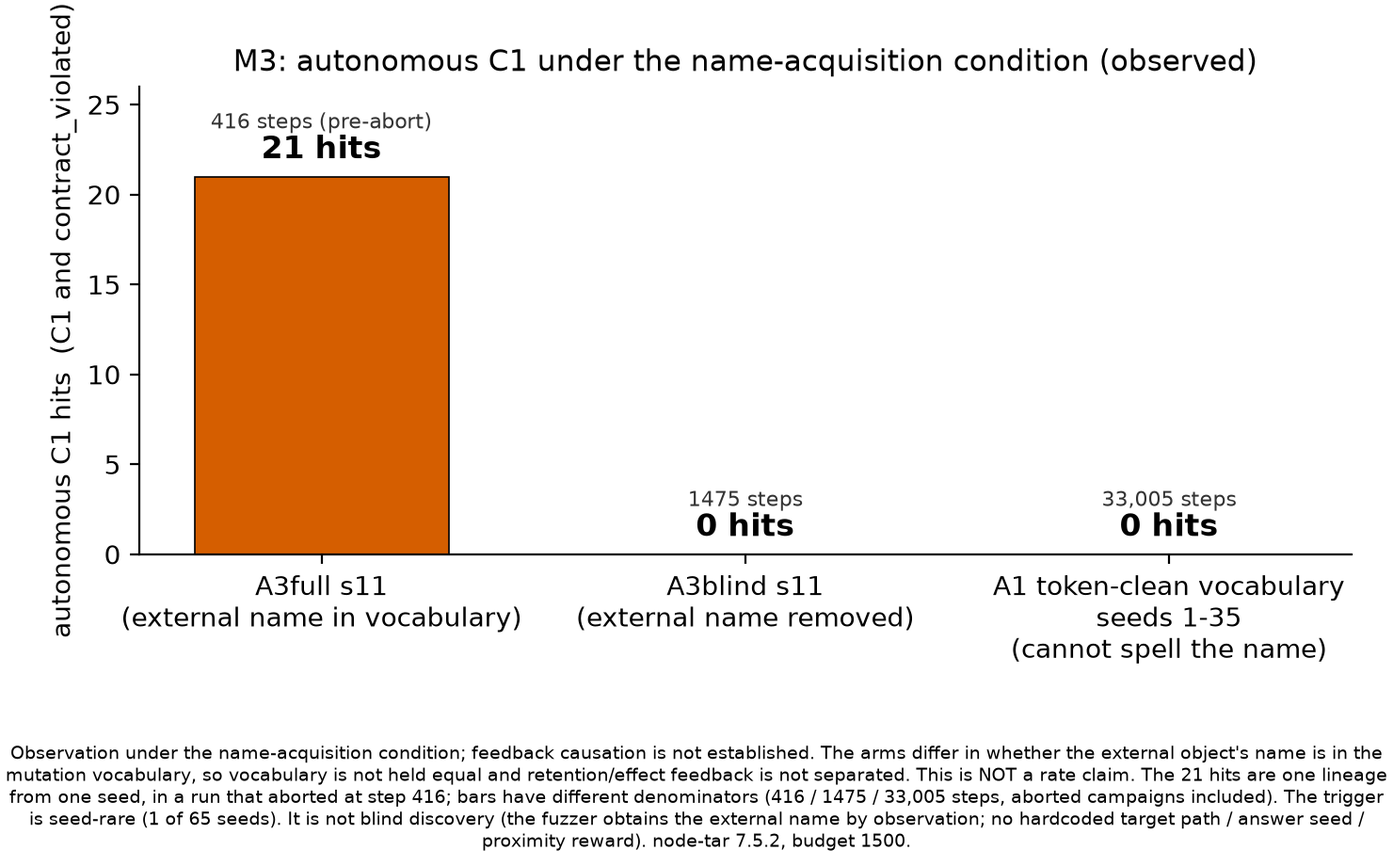
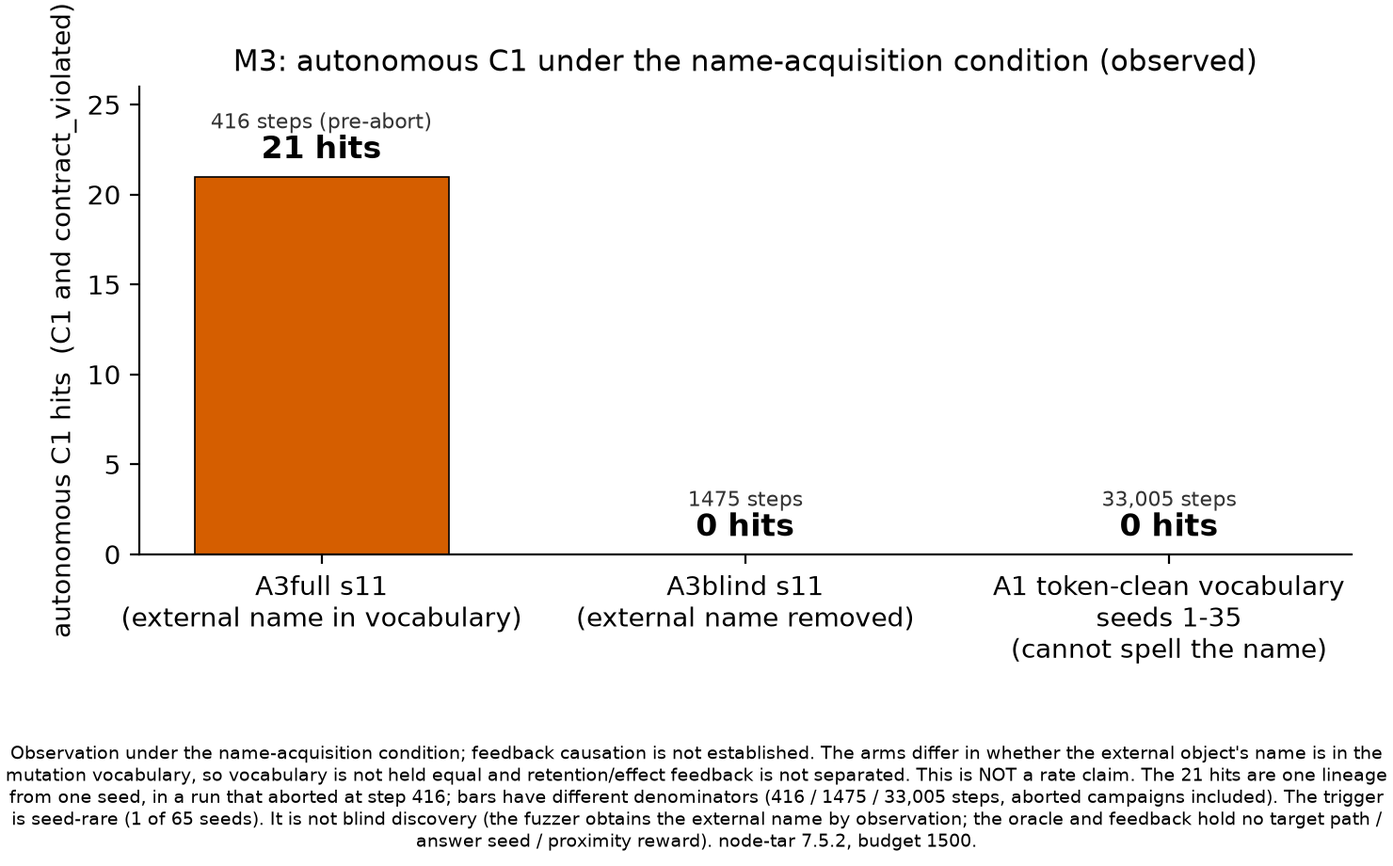
docs(paper): 과장 표현 일괄 스윕 — recipe·blind·v1 잔존 48건을 정직한 claim으로
paper/ 전체와 related-work-positioning.md를 전수 grep해 한 번에 교정한다(162건 중 48건).
참값: CVE 식별자·PoC·고정 공격 패턴·대상 경로·sentinel 이름을 oracle·feedback에 넣지
않는다(D005·D006). "고정 recipe 자체가 없다"나 "blind 발견"이 아니다.

- A(11건): 범위 없는 "recipe 없음·하드코딩 안 함"을 oracle·feedback 범위로 좁힌다.
  mutation에는 add_hardlink 연산자와 escape-hardlink 문법이 있고(exp0-pilot-v2.1:28),
  외부 이름은 어휘에 들어간다. M3 그림 캡션 포함(PNG 재렌더, 수치 불변).
- V(5건): v1 H1·RQ2/RQ3 잔존을 research-questions v2로 교체하고 "(구: …)"를 남긴다.
- O(2건): "object-identity 관찰을 끄면/켜면"을 외부 이름을 어휘에서 빼면/넣으면으로.
  이 대조는 어휘를 바꾼 것이다(§5.3.2 정정).
- B(30건): "blind 대조"를 "어휘 제거 대조"로 통일한다. "blind 발견 아님"과 혼동되기
  때문이다(W3 심사 E8).

그대로 둔 것: "blind 발견 아님", 금지 목록, 신규성 제외, 신규 seed, M2 oracle의 "하드코딩
없이", 파일명·arm ID(A3blind, Ledger 인용 identity-blind), "(구: …)" 인용.

머지 주의: #256 gen_table_m3.py의 PREFIX·LABELS·SUFFIX를 새 T-M3에 맞춰야 한다.

Claude-Session: https://claude.ai/code/session_01J7VZibcLNxwsopuuNyVmdm

Changed region(s): [[0.0, 0.913, 0.9946, 1.0]]

diff --git a/paper/figures/render_m3_blind_ablation.py b/paper/figures/render_m3_blind_ablation.py
@@ -1,4 +1,4 @@
-"""Render the M3 blind-ablation figure (observed data only).
+"""Render the M3 vocabulary-removal contrast figure (observed data only).
 
 Data source (observed): ``paper/tables/m3-blind-ablation.md``, re-counted from the raw
 step logs (hit = a step with ``oracle.C1`` AND ``feedback.contract_violated``). node-tar
@@ -57,8 +57,8 @@ def main() -> None:
         "a rate claim. The 21 hits are one lineage from one seed, in a run that aborted at step "
         "416; bars have different denominators (416 / 1475 / 33,005 steps, aborted campaigns "
         "included). The trigger is seed-rare (1 of 65 seeds). It is not blind discovery (the "
-        "fuzzer obtains the external name by observation; no hardcoded target path / answer seed "
-        "/ proximity reward). node-tar 7.5.2, budget 1500."
+        "fuzzer obtains the external name by observation; the oracle and feedback hold no target "
+        "path / answer seed / proximity reward). node-tar 7.5.2, budget 1500."
     )
     fig.text(0.5, 0.015, caption, ha="center", va="bottom", fontsize=7, wrap=True)
     fig.subplots_adjust(left=0.1, right=0.97, top=0.9, bottom=0.36)

diff --git a/paper/sections/01-abstract.md b/paper/sections/01-abstract.md
@@ -1,10 +1,10 @@
 # Abstract (드래프트 v1)
 
-InodeFence는 TAR archive extraction의 보안 경계위반 탐색에서, 고정된 CVE PoC나 공격 recipe를
-하드코딩하지 않고 **filesystem-security-state**(추출 객체와 외부 객체 사이의 object identity, 보호된
-외부 sentinel에 대한 external effect)를 feedback으로 사용하는 접근을 조사하는 연구 프로토타입이다.
-핵심 연구 질문 H1은 "이 상태를 feedback으로 쓰면 extraction의 보안 경계위반을 더 잘 탐색할 수
-있는가"이며, 참신성은 확정된 사실이 아니라 **검증 대상 가설**로 둔다.
+InodeFence는 TAR archive extraction의 보안 경계위반 탐색에서, CVE 식별자·PoC·고정 공격 패턴·대상 경로·sentinel 이름을
+oracle과 feedback에 넣지 않고 **filesystem-security-state**(추출 객체와 외부 객체 사이의 object identity, 보호된
+외부 sentinel에 대한 external effect)를 feedback으로 사용하는 접근을 조사하는 연구 프로토타입이다 *(구: "고정된 CVE PoC나 공격 recipe를 하드코딩하지 않고", 2026-11-06 범위 정정)*.
+핵심 연구 질문은 "피해 경로 이름을 아는 동일 어휘·동일 예산 아래서, 이 상태를 retention·스케줄링 피드백으로 쓰는 탐색이 무작위 탐색과
+구조 커버리지 탐색보다 첫 경계위반까지의 실행 수를 줄이고 고유 위반 입력을 더 많이 찾는가"이고(research-questions v2; blind 발견 비주장), 참신성은 확정된 사실이 아니라 **검증 대상 가설**로 둔다 *(구: H1 "이 상태를 feedback으로 쓰면 extraction의 보안 경계위반을 더 잘 탐색할 수 있는가", v1 질문, 2026-11-06 교체)*.
 
 이 드래프트가 **방어하는 주장은 좁다**:
 
@@ -15,20 +15,20 @@ InodeFence는 TAR archive extraction의 보안 경계위반 탐색에서, 고정
    보호된 외부 sentinel의 전후 metadata 변화 = C2)이 릴리스 id나 정답 경로를 판정 조건에 넣지
    않고 서로 다른 두 root-cause(CVE-2026-23745, 그리고 그 수정이 도입한 회귀 CVE-2026-24842)를
    5개 고정 릴리스의 통제 차분으로 포착한다(M2, observed).
-3. 영향 릴리스 node-tar 7.5.2에서 object-identity 관찰을 **끄면**(identity-blind 대조) 자율 경계위반
-   발견이 0이고 **켜면** 특정 seed에서 결정론적으로 재현되는 자율 C1 트리거(21건)가 나타난다 —
-   즉 자율 경계위반이 **외부 객체 이름을 어휘에 획득한 조건에서 관찰된다**(M3; blind 대조는 어휘 통제라 retention·effect 피드백 자체의 인과 기여는 미입증) *(구: "발견의 인과적 원인이 그 feedback임을 blind 대조로 보인다", 2026-11-03 정정)*.
-   (2026-11-03 정정: 이 blind 대조는 피드백이 아니라 **어휘**를 통제한 실험이다. 입증된 것은 "외부 객체 이름의 관찰(어휘 획득)이 자율 C1의 필요조건"이지 (st_dev, st_ino) retention·스케줄링 피드백의 기여가 아니며, 그 기여는 어휘를 맞춘 R/D/S-u 비교(research-questions v2 H-A)로 미분리다. 수치·서술은 보존한다. 상세: §5.3.2 정정.)
+3. 영향 릴리스 node-tar 7.5.2에서 외부 객체 이름을 mutation 어휘에서 **빼면**(A3blind, 어휘 제거 대조) 자율 경계위반
+   발견이 0이고 **넣으면**(A3full) 특정 seed에서 결정론적으로 재현되는 자율 C1 트리거(21건)가 나타난다 *(구: "object-identity 관찰을 끄면/켜면", 2026-11-06 정정)* —
+   즉 자율 경계위반이 **외부 객체 이름을 어휘에 획득한 조건에서 관찰된다**(M3; 어휘 제거 대조는 어휘 통제라 retention·effect 피드백 자체의 인과 기여는 미입증) *(구: "발견의 인과적 원인이 그 feedback임을 blind 대조로 보인다", 2026-11-03 정정)*.
+   (2026-11-03 정정: 이 어휘 제거 대조는 피드백이 아니라 **어휘**를 통제한 실험이다. 입증된 것은 "외부 객체 이름의 관찰(어휘 획득)이 자율 C1의 필요조건"이지 (st_dev, st_ino) retention·스케줄링 피드백의 기여가 아니며, 그 기여는 어휘를 맞춘 R/D/S-u 비교(research-questions v2 H-A)로 미분리다. 수치·서술은 보존한다. 상세: §5.3.2 정정.)
 4. 동일한 generic oracle(코드 불변)이 adapter 수준에서 3개 독립 extractor(python-tarfile · oras-go ·
    decompress)에 target-agnostic하게 적용된다(M4, **oracle/adapter 수준** 일반성).
 
 **정직 경계를 명시한다.** (3)은 "상태-인지 feedback이 무작위보다 빠르다/많이 찾는다"는 **rate 우위도
 아니고** "feedback이 인과적으로 발견을 구동한다"는 **인과 명제도 아니다** *(구: "feedback이 발견을 가능케 한다는 인과 명제", 2026-11-03 정정)*. (3)이 말하는 것은 **"외부 이름을 어휘에 획득한 조건에서만 자율 C1이 관찰됨 — 이름 없으면 도달 불가"**라는 이름 획득 조건의 관찰이며, retention·effect 피드백 자체의 인과 기여는 어휘를 맞춘 R/D/S-u로 미분리다.
-(2026-11-03 정정: 이 blind 대조는 피드백이 아니라 **어휘**를 통제한 실험이다. 입증된 것은 "외부 객체 이름의 관찰(어휘 획득)이 자율 C1의 필요조건"이지 (st_dev, st_ino) retention·스케줄링 피드백의 기여가 아니며, 그 기여는 어휘를 맞춘 R/D/S-u 비교(research-questions v2 H-A)로 미분리다. 수치·서술은 보존한다. 상세: §5.3.2 정정.) 자율
+(2026-11-03 정정: 이 어휘 제거 대조는 피드백이 아니라 **어휘**를 통제한 실험이다. 입증된 것은 "외부 객체 이름의 관찰(어휘 획득)이 자율 C1의 필요조건"이지 (st_dev, st_ino) retention·스케줄링 피드백의 기여가 아니며, 그 기여는 어휘를 맞춘 R/D/S-u 비교(research-questions v2 H-A)로 미분리다. 수치·서술은 보존한다. 상세: §5.3.2 정정.) 자율
 트리거는 이 예산(budget 1500)에서 65 seed 중 1개로 **seed-rare**이며, 이것은 **blind 발견이 아니다**
-(기존 외부 객체에 하드링크하려면 그 이름이 필요하고 퍼저는 그것을 관찰로 얻는다; 어휘·oracle에
-대상 경로·식별자·정답 seed·근접 보상을 하드코딩하지 않았고 EXTERNAL 필터는 region 기준
-target-agnostic이다). rate 우위 판정(동일 budget powered matched A1 vs A3full)과 2·3번째 extractor의
+(기존 외부 객체에 하드링크하려면 그 이름이 필요하고 퍼저는 그것을 관찰로 얻는다; oracle·feedback에
+대상 경로·식별자·정답 seed·근접 보상을 넣지 않았고 EXTERNAL 필터는 region 기준
+target-agnostic이다; 외부 이름 자체는 어휘에 들어간다) *(구: "어휘·oracle에 … 하드코딩하지 않았고", 2026-11-06 범위 정정)*. rate 우위 판정(동일 budget powered matched A1 vs A3full)과 2·3번째 extractor의
 powered 자력발견 판정은 사전등록 후 수행했고 **모두 효과 우위를 보이지 않았다**: rate는 매칭 Wilson
 CI가 겹쳐 **미분리**(검정력 부족)이나 신규 disjoint seed s101에서 메커니즘이 재현돼 멀티-seed로
 강화됐고, 2번째(decompress 통합 0/28)·3번째(oras-go 0/1) extractor 자력발견은 각각 **사후 분석 기준 음성(사전등록 판정 아님)·약한

diff --git a/docs/LOG.md b/docs/LOG.md
@@ -191,3 +191,4 @@ append-only. 실행 시도 1건 = 1줄. 실패해도 기록한다.
 - 2026-11-06 | 지웅 (Claude Code, W4 Paper & Deliverables, 오케스트레이터 inodefence-3b 지시) | **W4-T2 M2·M3 그림 재렌더와 문구 정정, 결론 TBD 구조, EXP-0 clock 환산 반영.** `render_m3_blind_ablation.py`의 제목·캡션·x축 라벨을 Ledger M3 판정에 맞춰 재렌더(한글 폰트가 없어 그림 안은 영문; W3 확인, 수정 2건 반영: A1 라벨, lineage·분모 문장). `render_m2_cross_release.py` 캡션의 회귀 인과 서술을 inferred로 정정. T-M3 '읽는 법'과 그림 사양 정정. `08-conclusion.md`에 §7.2 EXP-3 자리·양방향 문장 틀·검정력 한계(수치 없음, 기존 본문 유지). 보고서·대본·§5.6 패치에 W2 확정 EXP-0 배율 1.091 반영: p95 1.549→1.419 s, 스트림당 2428→2650 exec/h, 호스트 전체 ≈4760 exec/h. 위 W4 clock 항목의 '환산값 미확정'을 대체하며 11/06 측정 1.0837은 EXP-0에 적용하지 않는다. 일정 표기는 결과보고서·영상 제출 11/26, 최종발표 11/30. **머지 주의:** #256 `scripts/gen_table_m3.py` SUFFIX가 T-M3 옛 문단을 복제하므로 #265와 함께 머지하면 `tests/test_gen_tables.py::test_m3_render_byte_identical_to_committed`와 `--verify` T-M3 행이 깨진다. #256은 손대지 않았고 머지 때 SUFFIX를 새 본문에 맞춰야 한다(W1). §5.6 패치는 #225·#247 머지 대기. `docs/STATUS.md`의 '제출 11/30' 문구 정리는 오케스트레이터 몫이다. 시연 대본 검증 실행의 raw를 scratchpad에서 `~/inodefence-evidence/w4-script-verification-20261106/`로 옮겨 보존(MANIFEST.sha256 88ac345e, W2 노출 원장 입력으로 전달). | ruff check·format(그림 스크립트 2개) · `scripts/check_docs.py` PASS, 재렌더 PNG 육안 확인, 수치 불변. pytest 미실행(이 호스트에 pytest 없음, CI에 맡김). | paper/figures/{m2-cross-release-evidence.png,m3-blind-ablation.png,render_m2_cross_release.py,render_m3_blind_ablation.py,m3-blind-ablation-figure-spec.md} · paper/tables/m3-blind-ablation.md · paper/sections/08-conclusion.md · paper/deliverables/* |
 - 2026-11-06 | 지웅 (Claude Code, W4 Paper & Deliverables, 오케스트레이터 inodefence-3b 지시) | **W4-T3 논문 정합성 수정(결과 비의존, W3 심사 E6·E2·E1).** 03 §2.4에 피해 경로 이름 전제와 blind 비주장 추가. 04 §3.3 '확인된 차이'를 '추가 검증할 차이(가설)'로 바꾸고 Windows 범위 명시. 04 §3.5 v1 질문을 research-questions v2 핵심 RQ로 교체. 수치·실험·사전등록 변경 없음. 범위 밖으로 남긴 것: `related-work-positioning.md:119`와 #260 §3.7.1의 같은 v1 문장, E3·E4·E5·E7·E8. | `scripts/check_docs.py` PASS. | paper/sections/03-background-threat-model.md · paper/sections/04-related-work.md |
 - 2026-11-06 | 지웅 (Claude Code, W4 Paper & Deliverables, 오케스트레이터 inodefence-3b 지시) | **W4-T4 v1 질문 잔존 정리와 ZIPDiff 출처 표기(W3 심사 E1·E3).** `related-work-positioning.md` 현재 질문을 v2 핵심 RQ로 교체(옛 문구는 '구:' 주석). 04 §3.2 ZIPDiff 서술에 Wormholes §5.6 출처 각주와 범위(ZIP 도구 20개, 그중 8개 symlink 취약) 추가. 원문은 W3가 확인했고 재대조하지 않았다. 결과보고서 §1의 'recipe 없음' 계열 문장을 판정·피드백 범위로 좁히고 blind 비주장 추가. #260 §3.7.1 표의 '고정 recipe 없음' 교체 문구는 W1에 전달(이 행의 출처는 #216이며 #260 브랜치는 편집하지 않음). 남은 같은 계열 문구: 01:3, 05:27, 08:5(이번 지시 범위 밖). §5.6 패치를 이동한 #247 head 기준으로 다시 만들어 적용 확인(커밋 안 함). | `scripts/check_docs.py` PASS. | docs/research/design/related-work-positioning.md · paper/sections/04-related-work.md · paper/deliverables/capstone-report-draft.md |
+- 2026-11-06 | 지웅 (Claude Code, W4 Paper & Deliverables, 오케스트레이터 inodefence-3b 지시) | **W4-T5 과장 표현 일괄 스윕(paper/ 전체 + related-work-positioning.md, 48건).** 범위 없는 'recipe 없음·하드코딩 안 함' 주장을 'CVE 식별자·PoC·고정 공격 패턴·대상 경로·sentinel 이름을 oracle·feedback에 넣지 않는다'(D005·D006)로 좁힘 11건, v1 질문·번호 잔존을 v2로 5건, 'object-identity 관찰 끄면/켜면' 서술을 어휘 조건으로 2건, 'blind 대조'를 '어휘 제거 대조'로 30건. M3 그림 캡션 수정으로 PNG 재렌더(수치 불변, W2 리허설 중이라 nice 19). 그대로 둔 것: 'blind 발견 아님', 금지 목록, 신규성 제외, 신규 seed, M2 oracle의 '하드코딩 없이', 파일명·arm ID(A3blind, identity-blind Ledger 인용), '(구:)' 인용. **머지 주의:** #256 `gen_table_m3.py`는 SUFFIX뿐 아니라 PREFIX·LABELS도 새 T-M3에 맞춰야 한다. | `scripts/check_docs.py` PASS · ruff check·format(render_m3) · 재렌더 PNG 육안 확인. pytest 미실행(이 호스트에 pytest 없음, CI에 맡김). | paper/sections/{00-outline,01-abstract,02-introduction,05-method,06-results,07-limitations-discussion,08-conclusion,claims-evidence-status-v1}.md · paper/tables/{capability-ledger-summary,m3-blind-ablation}.md · paper/figures/{README.md,m3-blind-ablation-figure-spec.md,m3-blind-ablation.png,render_m3_blind_ablation.py} · paper/deliverables/{capstone-report-draft,results-artifact-requirements}.md · docs/research/design/related-work-positioning.md |

diff --git a/paper/sections/claims-evidence-status-v1.md b/paper/sections/claims-evidence-status-v1.md
@@ -24,8 +24,8 @@ raw experiment output → validated summary → finding → 이 매핑 → Capab
 | C-M1 | 실제 node-tar에서 입력→실행→entry별 관찰→C0/C1/C2→feedback→다음 mutation 루프가 돈다 | **paper-ready**(TESTED, 엔지니어링 능력) | Ledger M1 행 1–6 + 마일스톤 M1; `make demo`(호스트) |
 | C-M2 | **generic identity oracle 하나**가 릴리스/정답경로 하드코딩 없이 두 root-cause(R1=CVE-2026-23745, R2=CVE-2026-24842)를 통제 재현으로 포착 | **paper-ready**(방어 가능) | raw [`../../experiments/repro/evidence/summary.json`](../../experiments/repro/evidence/summary.json) → [M2 validated summary](../../experiments/summaries/cross-release-identity-repro-v1.md) → Ledger M2 행/마일스톤 M2 |
 | C-M3a-1 | 영향 릴리스 7.5.2에서 **외부 객체 이름을 mutation 어휘에 획득한 조건(A3full)에서 자율 경계위반이 관찰됐다**(s11=21 vs 이름을 뺀 A3blind 0 vs 철자 불가 A1 0; **멀티-seed**: powered 매칭 런의 신규 disjoint seed s101 완주 C1 + s118 observed-trigger로 반복) | **paper-ready**(observed; "blind 발견 아님"·"동일 어휘 통제 없음" 명시 필수) | raw `~/inodefence-evidence/{m3-scale-full,m3-ablation,m3-repro}` → [M3 validated summary](../../experiments/summaries/node-self-discovery-mechanism-v1.md) + powered 매칭 [verdict v2](../../experiments/summaries/m3-powered-matched-verdict-v2.md)(#200) → Ledger M3 행/마일스톤 M3(PR #151) |
-| C-M3a-2 | **inode/effect retention 피드백 자체의 인과 기여**(동일 어휘 아래 S-u가 R·D보다 위반에 먼저·더 많이 도달) | **미검증** — 기존 blind 대조는 어휘를 통제해 분리 불가; 어휘 동등 R/D/S 비교(EXP-3, 2026-11-18 사전등록) 이후 판정 | [research-questions v2](../../docs/research/design/research-questions.md) H-A · [exp0-pilot-v2](../../experiments/preregistration/exp0-pilot-v2.md) |
-| C-M3b | **상태-인지 피드백이 무작위보다 C1을 더 빨리/많이 찾는다(rate 우위, H1 effectiveness)** | **사전등록 판정: rate CI 미분리(검정력 부족)** — 주 주장 아님 | powered 매칭 런 완료(A1 vs A3full, budget 2000, disjoint seed 100–119): 완주 clean C1 A3full 1/10 vs A1 0/12, 매칭 Wilson CI 겹침(`complete_hit_wilson_intervals_separate=False`) → rate 우위 미입증(~0.1 효과 검정력 부족). raw `~/inodefence-evidence/m3-powered-matched-20261030` → [powered verdict](../../experiments/summaries/m3-powered-matched-verdict-v1.md)(#196). 논문 본문 확정 rate 주장 금지(보조·탐색적) |
+| C-M3a-2 | **inode/effect retention 피드백 자체의 인과 기여**(동일 어휘 아래 S-u가 R·D보다 위반에 먼저·더 많이 도달) | **미검증** — 기존 어휘 제거 대조는 어휘를 통제해 분리 불가; 어휘 동등 R/D/S 비교(EXP-3, 2026-11-18 사전등록) 이후 판정 | [research-questions v2](../../docs/research/design/research-questions.md) H-A · [exp0-pilot-v2](../../experiments/preregistration/exp0-pilot-v2.md) |
+| C-M3b | **상태-인지 피드백이 무작위보다 C1을 더 빨리/많이 찾는다(rate 우위, v1 H1에서 유래)** | **사전등록 판정: rate CI 미분리(검정력 부족)** — 주 주장 아님 | powered 매칭 런 완료(A1 vs A3full, budget 2000, disjoint seed 100–119): 완주 clean C1 A3full 1/10 vs A1 0/12, 매칭 Wilson CI 겹침(`complete_hit_wilson_intervals_separate=False`) → rate 우위 미입증(~0.1 효과 검정력 부족). raw `~/inodefence-evidence/m3-powered-matched-20261030` → [powered verdict](../../experiments/summaries/m3-powered-matched-verdict-v1.md)(#196). 논문 본문 확정 rate 주장 금지(보조·탐색적) |
 | C-M4a | 동일 generic C0/C1/C2 oracle이 **3개 독립 extractor**(python-tarfile·oras-go·decompress)에서 adapter로 경계위반을 포착 | **paper-ready**(단 **oracle/adapter 수준 일반성에 한정**) | Ledger M4 행/마일스톤 M4(통제 reference 차분 + container-integration; `tests/test_python_tarfile_generality.py` 등) |
 | C-M4b | 2·3번째 extractor에서 **퍼저 자력 발견** 일반성 | **완료 아님(루프 작동·실행, 발견은 음성)** | 자력발견 루프가 decompress(2번째)·oras-go(3번째)에서 실제 실행됨 — decompress 통합 C1/C2 **0/28 Wilson≤0.121(검정력 있는 음성, #198)**, oras-go **0/1 Wilson[0,0.793](약한 음성, #197)**; C0(path-boundary)는 자력도달하나 identity/effect 미도달. [M4.5 통합 verdict](../../experiments/summaries/m4-5-decompress-selfdiscover-unified-v1.md)·[M4.7 oras-go](../../experiments/summaries/m4-7-oras-go-selfdiscover-v1.md). generality(oracle/adapter=C-M4a)≠self-discovery(루프 작동)≠effectiveness(발견). 발견 effectiveness 주장 아님 |
 | C-ABCD | item-3 A/B/C/D 중간상태 gradient: gradient(C/D)>random(A)>structure(B); **identity-state(C)≡coverage(D)** | **보조/탐색적만**(effectiveness 랭킹 아님) | Ledger "feedback effectiveness" 행 PASS 2. terminal C1 0/21 Wilson[0,0.155]. escape-hardlink 문법 한정 negative(C≡D 중복), 범위 밖 일반화 금지. EN-008(새 state 수 ≠ effectiveness) |

diff --git a/paper/tables/m3-blind-ablation.md b/paper/tables/m3-blind-ablation.md
@@ -1,4 +1,4 @@
-# 표 M3 — 자력 발견 blind-ablation 대조표
+# 표 M3 — 자력 발견 어휘 제거 대조표
 
 > 렌더된 그림: [m3-blind-ablation.png](../figures/m3-blind-ablation.png) (생성 소스 [`render_m3_blind_ablation.py`](../figures/render_m3_blind_ablation.py))
 
@@ -15,7 +15,7 @@ M3(§5.3)의 근거표다. hit = **step에서 `oracle.C1` AND `feedback.contract
 | budget | 1500 (campaign당) |
 | raw 위치 | `~/inodefence-evidence/{m3-scale-full, m3-ablation, m3-repro}/` (저장소 밖, git-ignore; 각 `matrix.json`에 provenance) |
 | validated summary | [node-self-discovery-mechanism-v1](../../experiments/summaries/node-self-discovery-mechanism-v1.md) |
-| 관련 PR | #151 (메커니즘·실제규모·blind 대조, main 머지 `d44d903`) |
+| 관련 PR | #151 (메커니즘·실제규모·어휘 제거 대조, main 머지 `d44d903`) |
 
 arm 정의: `A3full` = `uniform-generic-m1-state-aware-escape-hardlink-v1`; `A3blind` =
 `...-state-aware-escape-hardlink-blind-v1`(관찰 이름에서 EXTERNAL region 제외); `A1` = 무작위 바닥
@@ -26,7 +26,7 @@ arm 정의: `A3full` = `uniform-generic-m1-state-aware-escape-hardlink-v1`; `A3b
 | 셀 | seeds | 기록 step 수 | 자율 C1 hit (C1 ∧ contract_violated) |
 | --- | --- | --- | --- |
 | **A3full s11** (state-aware; scale-full·ablation 동일·결정론) | 11 | 416 (abort 전) | **21** (21건 모두 C1·C2·contract_violated 동시) |
-| **A3blind s11** (identity-blind 대조) | 11 | 1475 | **0** |
+| **A3blind s11** (어휘 제거 대조) | 11 | 1475 | **0** |
 | **A1 random floor** | 1–35 (35개) | 33,005 | **0** |
 | A3full scale study | 1–35 (35개) | 41,494 | **s11만 21** (그 외 전 seed 0) |
 | A3full 재현 | 36–65 (30개) | 34,585 | **0/30** |
@@ -44,8 +44,8 @@ A3full s11 = 21은 이름을 어휘에 넣은 조건의 관찰이고, 이름을 
 미입증이며, 그 기여는 어휘를 맞춘 R/D/S-u 비교로 아직 분리되지 않았다. 이는 **rate 우위도 아니다**(§5.3.3 powered 판정: 매칭
 Wilson CI 미분리). 21 hit는 한 seed의 1 lineage이고 셀마다 분모(step 수)가 다르다(§5.3.1). 자율 트리거는 이 그림의 budget
 1500·seed 1–65에선 s11 하나(seed-rare)이고 powered 런의 신규 disjoint seed s101에서도 관찰됐지만, 동일 어휘 통제가 없으므로
-피드백 인과의 강화는 아니다. **blind 발견이 아니다**(퍼저는 외부 객체 이름을 관찰로 얻는다; 하드코딩 없음, §5.3.2).
+피드백 인과의 강화는 아니다. **blind 발견이 아니다**(퍼저는 외부 객체 이름을 관찰로 얻는다; oracle·feedback에 대상 경로·정답 seed 없음, §5.3.2) *(구: "하드코딩 없음", 2026-11-06 범위 정정)*.
 
 *(구: "object-identity 관찰(feedback)이 없으면 도달 불가, 있으면 도달"이라는 인과, 2026-11-03 정정을 2026-11-06 본문에 반영.)*
 
-(2026-11-03 정정: 이 blind 대조는 피드백이 아니라 **어휘**를 통제한 실험이다. 입증된 것은 "외부 객체 이름의 관찰(어휘 획득)이 자율 C1의 필요조건"이지 (st_dev, st_ino) retention·스케줄링 피드백의 기여가 아니며, 그 기여는 어휘를 맞춘 R/D/S-u 비교(research-questions v2 H-A)로 미분리다. 수치·서술은 보존한다. 상세: §5.3.2 정정.) 이 표의 세 셀은 어휘(이름 포함 여부)가 다른 셀이므로, 읽는 법은 "이름 획득 조건의 대조"다.
+(2026-11-03 정정: 이 어휘 제거 대조는 피드백이 아니라 **어휘**를 통제한 실험이다. 입증된 것은 "외부 객체 이름의 관찰(어휘 획득)이 자율 C1의 필요조건"이지 (st_dev, st_ino) retention·스케줄링 피드백의 기여가 아니며, 그 기여는 어휘를 맞춘 R/D/S-u 비교(research-questions v2 H-A)로 미분리다. 수치·서술은 보존한다. 상세: §5.3.2 정정.) 이 표의 세 셀은 어휘(이름 포함 여부)가 다른 셀이므로, 읽는 법은 "이름 획득 조건의 대조"다.

diff --git a/paper/sections/00-outline.md b/paper/sections/00-outline.md
@@ -14,12 +14,12 @@ Capability Ledger)로 추적 가능하다.
 ## 정직 프레이밍 (한 문단 요약)
 
 이 드래프트의 **주 주장은 두 개**다: (M2) 하나의 generic identity oracle이 릴리스 id·정답 경로
-하드코딩 없이 두 root-cause를 통제 차분으로 포착한다(observed), (M3) 영향 릴리스에서 object-identity
-관찰이 자율 경계위반 발견의 **이름 획득 조건으로 관찰된다(피드백 인과 미입증)** *(구: "인과적으로 가능케 한다", 2026-11-03 정정)*(blind 대조는 어휘 통제; 이름 없으면 도달 불가). **rate 우위
+하드코딩 없이 두 root-cause를 통제 차분으로 포착한다(observed), (M3) 영향 릴리스에서 외부 객체 이름을
+어휘에 획득한 조건에서 자율 경계위반이 관찰된다(**이름 획득 조건의 관찰, 피드백 인과 미입증**) *(구: "인과적으로 가능케 한다", 2026-11-03 정정; "object-identity 관찰이 … 이름 획득 조건으로 관찰된다", 2026-11-06 정정)*(어휘 제거 대조; 이름 없으면 도달 불가). **rate 우위
 (상태-인지 feedback이 무작위보다 빠르다/많이 찾는다)는 주 주장이 아니라 보조이며, powered 매칭 판정
 결과 Wilson CI가 겹쳐 미분리다(검정력 부족; 단 신규 seed s101로 메커니즘은 멀티-seed로 강화).**
 참신성은 확정 사실이 아니라 검증 대상 가설로 두고, "최초/새로운/기존연구에 없음" 류 표현은 쓰지 않는다.
-(2026-11-03 정정: 이 blind 대조는 피드백이 아니라 **어휘**를 통제한 실험이다. 입증된 것은 "외부 객체 이름의 관찰(어휘 획득)이 자율 C1의 필요조건"이지 (st_dev, st_ino) retention·스케줄링 피드백의 기여가 아니며, 그 기여는 어휘를 맞춘 R/D/S-u 비교(research-questions v2 H-A)로 미분리다. 수치·서술은 보존한다. 상세: §5.3.2 정정.) 따라서 (M3)는 "이름 획득 조건에서 자율 경계위반이 관찰됨(피드백 인과 미입증)"으로 읽는다.
+(2026-11-03 정정: 이 어휘 제거 대조는 피드백이 아니라 **어휘**를 통제한 실험이다. 입증된 것은 "외부 객체 이름의 관찰(어휘 획득)이 자율 C1의 필요조건"이지 (st_dev, st_ino) retention·스케줄링 피드백의 기여가 아니며, 그 기여는 어휘를 맞춘 R/D/S-u 비교(research-questions v2 H-A)로 미분리다. 수치·서술은 보존한다. 상세: §5.3.2 정정.) 따라서 (M3)는 "이름 획득 조건에서 자율 경계위반이 관찰됨(피드백 인과 미입증)"으로 읽는다.
 
 ## 읽는 순서
 
@@ -39,7 +39,7 @@ Capability Ledger)로 추적 가능하다.
 - 표: [`../tables/m2-cross-release-evidence.md`](../tables/m2-cross-release-evidence.md),
   [`../tables/m3-blind-ablation.md`](../tables/m3-blind-ablation.md),
   [`../tables/capability-ledger-summary.md`](../tables/capability-ledger-summary.md)
-- 그림(렌더됨, observed): [M2 verdict](../figures/m2-cross-release-evidence.png) · [M3 blind-ablation](../figures/m3-blind-ablation.png) — 사양 [m3-blind-ablation-figure-spec](../figures/m3-blind-ablation-figure-spec.md), 생성 소스 `../figures/render_*.py`
+- 그림(렌더됨, observed): [M2 verdict](../figures/m2-cross-release-evidence.png) · [M3 어휘 제거 대조](../figures/m3-blind-ablation.png) — 사양 [m3-blind-ablation-figure-spec](../figures/m3-blind-ablation-figure-spec.md), 생성 소스 `../figures/render_*.py`
 - 주장↔증거 매핑: [`claims-evidence-status-v1.md`](claims-evidence-status-v1.md)
 
 ## 상태 범례

diff --git a/paper/sections/05-method.md b/paper/sections/05-method.md
@@ -24,12 +24,12 @@ AFTER를 찍는다. `StateSnapshot`에서 결과가 둘로 갈라진다: **State
 
 ## 4.2 generic과 target-specific의 분리
 
-연구 질문이 "고정 recipe 없이 generic mutation + state feedback"이므로, target/CVE 로직이 generic
-경로에 새지 않는 것이 설계의 핵심 불변식이다.
+핵심 RQ(research-questions v2)는 동일 어휘·동일 예산 아래 피드백 정책만 바꿔 비교한다. 따라서 CVE 식별자·PoC·고정 공격 패턴·대상 경로·sentinel 이름을
+oracle과 feedback에 넣지 않고, target/CVE 로직이 generic 경로에 새지 않는 것이 설계의 핵심 불변식이다 *(구: "고정 recipe 없이 generic mutation + state feedback", v1 질문, 2026-11-06 교체)*.
 
 - **Generic (target 무지):** `model/`, `generator/`, `mutator/`, `builder`, `observer/`, `oracle/`,
   `feedback/`, `pipeline`. Mutator는 8개 generic operator(add/remove/duplicate/reorder/path/hardlink/
-  symlink/link-target)만 가지며 target-specific vulnerability recipe를 소유하지 않는다. Observer는
+  symlink/link-target)를 가지며 CVE별 PoC를 소유하지 않는다. 다만 mutation 정책에는 escape-hardlink 문법과 관찰 이름 어휘가 있으므로(§4.4) 고정 패턴이 전혀 없다는 뜻은 아니다 *(구: "target-specific vulnerability recipe를 소유하지 않는다", 2026-11-06 범위 정정)*. Observer는
   `(st_dev, st_ino)`·nlink·mode·size·content digest·link text 같은 **사실만** 기록하고 취약 여부를
   판단하지 않는다. Oracle은 Contract를 적용하되 filesystem 접근·target 실행을 하지 않는다.
 - **Target-specific (격리):** `targets/`(node-tar worker 등)와 `execution/`(container backend). 실행
@@ -56,11 +56,11 @@ sentinel 경로·CVE를 feedback에 심지 않으며, EXTERNAL 판정은 region 
 
 결과에서 쓰는 arm 라벨은 다음 두 축에서 정의된다. 라벨의 정확한 정의는 각 validated summary와
 [`../../docs/research/design/research-questions.md`](../../docs/research/design/research-questions.md)의
-RQ2/RQ3를 따른다.
+H-A와 '폐기·대체 기록'을 따른다 *(구: "RQ2/RQ3", v1 번호, 2026-11-06 교체)*.
 
 - **M3 자력발견 study arm**([M3 요약](../../experiments/summaries/node-self-discovery-mechanism-v1.md) 정의):
   `A3full` = state-aware escape-hardlink(`uniform-generic-m1-state-aware-escape-hardlink-v1`),
-  `A3blind` = 동일하되 관찰 이름에서 EXTERNAL region 제외(identity-blind 대조),
+  `A3blind` = 동일하되 관찰 이름에서 EXTERNAL region 제외(어휘 제거 대조; 코드 이름 identity-blind),
   `A1` = 무작위 바닥(token-clean, state-aware 외부 주소지정 없음). search 정책은
   `effect-feedback-v2-or-violation-v1-boundary-attempt-v1-adaptive-mutation-v1`.
 - **item-3 단일경로 A/B/C/D arm**(Ledger 정의): `A` = B0/legacy(무작위), `B` = B0/M1(구조),

diff --git a/paper/sections/08-conclusion.md b/paper/sections/08-conclusion.md
@@ -2,15 +2,15 @@
 
 ## 7.1 현재 방어하는 명제
 
-InodeFence는 고정된 CVE PoC·공격 recipe 없이 filesystem-security-state(object identity + external
-effect)를 feedback으로 쓰는 archive-extraction 탐색 접근을 조사한다. 이 중간 드래프트가 방어하는
+InodeFence는 CVE 식별자·PoC·고정 공격 패턴·대상 경로·sentinel 이름을 oracle과 feedback에 넣지 않고 filesystem-security-state(object identity + external
+effect)를 feedback으로 쓰는 archive-extraction 탐색 접근을 조사한다 *(구: "고정된 CVE PoC·공격 recipe 없이", 2026-11-06 범위 정정)*. 이 중간 드래프트가 방어하는
 것은 좁고 증거로 닿는 네 명제다: (M1) 루프가 실제 node-tar에서 반복 재현되고, (M2) 하나의 generic
 identity oracle이 릴리스 id·정답 경로 하드코딩 없이 두 root-cause(CVE-2026-23745와 그 수정이 도입한
 회귀 CVE-2026-24842)를 통제 차분으로 포착하며, (M3) 외부 객체 이름을 어휘에 획득한 조건에서만 자율 경계위반이
-관찰됨을 blind 대조(어휘 통제)로 보이고(retention·effect 피드백 자체의 인과는 미입증) *(구: "관찰이 없으면 도달 못하고 있으면 도달한다는 인과를 보이고", 2026-11-03 정정)*, (M4) 동일 generic oracle이
+관찰됨을 어휘 제거 대조로 보이고(retention·effect 피드백 자체의 인과는 미입증) *(구: "관찰이 없으면 도달 못하고 있으면 도달한다는 인과를 보이고", 2026-11-03 정정)*, (M4) 동일 generic oracle이
 3개 독립 extractor에 oracle/adapter 수준으로 target-agnostic하게 적용된다.
 
-(2026-11-03 정정: 이 blind 대조는 피드백이 아니라 **어휘**를 통제한 실험이다. 입증된 것은 "외부 객체 이름의 관찰(어휘 획득)이 자율 C1의 필요조건"이지 (st_dev, st_ino) retention·스케줄링 피드백의 기여가 아니며, 그 기여는 어휘를 맞춘 R/D/S-u 비교(research-questions v2 H-A)로 미분리다. 수치·서술은 보존한다. 상세: §5.3.2 정정.)
+(2026-11-03 정정: 이 어휘 제거 대조는 피드백이 아니라 **어휘**를 통제한 실험이다. 입증된 것은 "외부 객체 이름의 관찰(어휘 획득)이 자율 C1의 필요조건"이지 (st_dev, st_ino) retention·스케줄링 피드백의 기여가 아니며, 그 기여는 어휘를 맞춘 R/D/S-u 비교(research-questions v2 H-A)로 미분리다. 수치·서술은 보존한다. 상세: §5.3.2 정정.)
 
 ## 7.2 핵심 RQ 판정: EXP-3 결과 자리 (TBD)
 

diff --git a/paper/figures/m3-blind-ablation-figure-spec.md b/paper/figures/m3-blind-ablation-figure-spec.md
@@ -1,4 +1,4 @@
-# 그림 사양 — M3 blind-ablation 대조 (사양 + 렌더됨)
+# 그림 사양 — M3 어휘 제거 대조 (사양 + 렌더됨)
 
 **렌더됨:** 이 사양으로 실제 그림을 렌더했다 — PNG [`m3-blind-ablation.png`](m3-blind-ablation.png),
 생성 소스 [`render_m3_blind_ablation.py`](render_m3_blind_ablation.py). 결과 그림은 Results
@@ -14,7 +14,7 @@ experiment config → commit 추적 가능).
 node-tar 7.5.2, budget 1500에서 세 비교 셀의 **자율 C1 hit 수**를 나타내는 막대그래프. 외부 객체 이름을 어휘에 넣은
 A3full에서만 관찰됐다는 **이름 획득 조건 대조**를 보인다. 판정은 **이름 획득 조건의 관찰(피드백 인과 미입증)**이다.
 *(구: "발견이 관찰(feedback)이 있을 때만 일어난다는 인과", 2026-11-03 정정)*
-(2026-11-03 정정: 이 blind 대조는 피드백이 아니라 **어휘**를 통제한 실험이다. 입증된 것은 "외부 객체 이름의 관찰(어휘 획득)이 자율 C1의 필요조건"이지 (st_dev, st_ino) retention·스케줄링 피드백의 기여가 아니며, 그 기여는 어휘를 맞춘 R/D/S-u 비교(research-questions v2 H-A)로 미분리다. 수치·서술은 보존한다. 상세: §5.3.2 정정.)
+(2026-11-03 정정: 이 어휘 제거 대조는 피드백이 아니라 **어휘**를 통제한 실험이다. 입증된 것은 "외부 객체 이름의 관찰(어휘 획득)이 자율 C1의 필요조건"이지 (st_dev, st_ino) retention·스케줄링 피드백의 기여가 아니며, 그 기여는 어휘를 맞춘 R/D/S-u 비교(research-questions v2 H-A)로 미분리다. 수치·서술은 보존한다. 상세: §5.3.2 정정.)
 수치는 그대로 두고, 2026-11-06에 PNG와 렌더 스크립트의 제목·캡션·x축 라벨을 이 정정에 맞췄다.
 
 ## 데이터 (observed, 그대로 사용)
